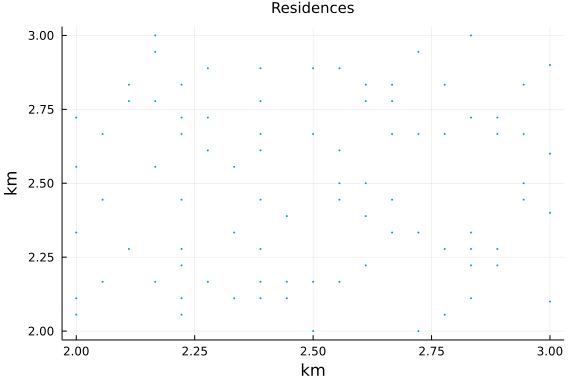
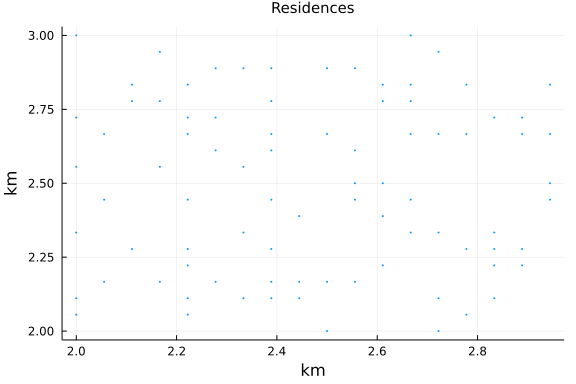
rename field

diff --git a/docs/src/examples/random_scenario.md b/docs/src/examples/random_scenario.md
@@ -275,12 +275,12 @@ res_blocks_distrib = EpiSiming.gen_res_blocks(pop_blocks, res_size_distribution)
 
 ```
 6×12 Matrix{Vector{Int64}}:
- [10, 19, 28, 19, 4, 5, 1, 0]  …  [1, 4, 2, 1, 0, 1, 0, 0]
- [4, 7, 14, 7, 1, 1, 0, 0]        [8, 16, 20, 14, 3, 3, 1, 0]
- [3, 6, 7, 7, 1, 1, 0, 0]         [8, 14, 25, 15, 3, 3, 1, 0]
- [5, 11, 14, 9, 2, 2, 1, 0]       [8, 17, 25, 17, 3, 3, 1, 0]
- [5, 13, 19, 13, 2, 3, 1, 0]      [5, 11, 17, 11, 2, 3, 0, 0]
- [6, 11, 15, 10, 3, 2, 0, 0]   …  [8, 11, 20, 10, 2, 2, 0, 0]
+ [11, 19, 29, 18, 4, 5, 1, 0]  …  [1, 1, 4, 1, 0, 1, 0, 0]
+ [5, 6, 12, 7, 1, 1, 1, 0]        [7, 13, 21, 15, 3, 3, 1, 0]
+ [3, 5, 7, 6, 1, 2, 0, 0]         [7, 15, 24, 14, 3, 4, 1, 0]
+ [5, 9, 13, 11, 2, 3, 0, 0]       [7, 17, 26, 15, 3, 4, 1, 0]
+ [6, 14, 20, 13, 2, 2, 1, 0]      [5, 11, 19, 11, 2, 2, 0, 0]
+ [5, 12, 15, 11, 2, 2, 0, 0]   …  [5, 11, 16, 11, 3, 3, 0, 0]
 ```
 
 
@@ -330,7 +330,7 @@ residences = EpiSiming.gen_residences(rng, res_blocks_distrib)
 ```
 
 ```
-3308-element EpiSiming.Residences{Int64, Float64}:
+3288-element EpiSiming.Residences{Int64, Float64}:
  (1, (1.5555555555555556, 1.3888888888888888), 1, [1])
  (1, (1.5, 1.0), 1, [2])
  (1, (1.5, 1.5), 1, [3])
@@ -342,18 +342,20 @@ residences = EpiSiming.gen_residences(rng, res_blocks_distrib)
  (1, (1.6111111111111112, 1.6111111111111112), 1, [9])
  (1, (1.7222222222222223, 1.7222222222222223), 1, [10])
  ⋮
- (72, (6.357142857142857, 12.142857142857142), 4, [9959, 9960, 9961, 9962])
- (72, (6.142857142857143, 12.642857142857142), 4, [9963, 9964, 9965, 9966])
- (72, (6.857142857142857, 12.142857142857142), 4, [9967, 9968, 9969, 9970])
- (72, (6.571428571428571, 12.214285714285714), 4, [9971, 9972, 9973, 9974])
- (72, (6.785714285714286, 12.357142857142858), 4, [9975, 9976, 9977, 9978])
- (72, (6.5, 12.285714285714286), 5, [9979, 9980, 9981, 9982, 9983])
- (72, (6.071428571428571, 12.357142857142858), 5, [9984, 9985, 9986, 9987, 
-9988])
- (72, (6.428571428571429, 12.857142857142858), 6, [9989, 9990, 9991, 9992, 
+ (72, (6.214285714285714, 12.214285714285714), 4, [9956, 9957, 9958, 9959])
+ (72, (6.428571428571429, 12.357142857142858), 4, [9960, 9961, 9962, 9963])
+ (72, (6.714285714285714, 12.142857142857142), 4, [9964, 9965, 9966, 9967])
+ (72, (6.857142857142857, 12.071428571428571), 5, [9968, 9969, 9970, 9971, 
+9972])
+ (72, (6.642857142857143, 12.071428571428571), 5, [9973, 9974, 9975, 9976, 
+9977])
+ (72, (6.928571428571429, 12.785714285714286), 5, [9978, 9979, 9980, 9981, 
+9982])
+ (72, (6.357142857142857, 12.214285714285714), 6, [9983, 9984, 9985, 9986, 
+9987, 9988])
+ (72, (6.071428571428571, 12.642857142857142), 6, [9989, 9990, 9991, 9992, 
 9993, 9994])
- (72, (6.071428571428571, 12.428571428571429), 6, [9995, 9996, 9997, 9998, 
-9999, 10000])
+ (72, (6.357142857142857, 12.5), 6, [9995, 9996, 9997, 9998, 9999, 10000])
 ```
 
 
@@ -420,64 +422,64 @@ population = EpiSiming.gen_population(
 ```
 
 ```
-10000-element EpiSiming.Population{EpiSiming.Phase, Int64}:
+10000-element EpiSiming.Population{EpiSiming.Phase, Int64, Int64, Float64, 
+Int8, Float64, Symbol}:
  (S, 1, (E, 9223372036854775807), 1, (1.5694444444444444, 1.388888888888888
-8), 36, 0.8429668909281123, 1.0871421914278978, Dict{Symbol, Int64}(), Dict
+8), 17, 0.8429668909281123, 1.0871421914278978, Dict{Symbol, Int64}(), Dict
 {Symbol, Int64}())
- (S, 1, (E, 9223372036854775807), 2, (1.5138888888888888, 1.0), 21, 0.63460
+ (S, 1, (E, 9223372036854775807), 2, (1.5138888888888888, 1.0), 11, 0.63460
 32739780121, 0.9288554210581556, Dict{Symbol, Int64}(), Dict{Symbol, Int64}
 ())
- (S, 1, (E, 9223372036854775807), 3, (1.5138888888888888, 1.5), 51, 1.86613
+ (S, 1, (E, 9223372036854775807), 3, (1.5138888888888888, 1.5), 10, 1.86613
 6384893467, 0.6379958240264992, Dict{Symbol, Int64}(), Dict{Symbol, Int64}(
 ))
  (S, 1, (E, 9223372036854775807), 4, (1.7361111111111112, 1.222222222222222
-3), 32, 1.9630070493538805, 0.49089045628844613, Dict{Symbol, Int64}(), Dic
+3), 45, 1.9630070493538805, 0.49089045628844613, Dict{Symbol, Int64}(), Dic
 t{Symbol, Int64}())
- (S, 1, (E, 9223372036854775807), 5, (1.9583333333333333, 1.5), 40, 0.17974
+ (S, 1, (E, 9223372036854775807), 5, (1.9583333333333333, 1.5), 34, 0.17974
 072857925905, 0.9196908284361106, Dict{Symbol, Int64}(), Dict{Symbol, Int64
 }())
  (S, 1, (E, 9223372036854775807), 6, (1.347222222222222, 1.7777777777777777
-), 31, 0.8018440204599591, 0.8572836161482715, Dict{Symbol, Int64}(), Dict{
-Symbol, Int64}())
+), 9, 0.8018440204599591, 0.8572836161482715, Dict{Symbol, Int64}(), Dict{S
+ymbol, Int64}())
  (S, 1, (E, 9223372036854775807), 7, (1.5694444444444444, 1.055555555555555
-6), 90, 0.7121991800323644, 1.4273823226339426, Dict{Symbol, Int64}(), Dict
+6), 44, 0.7121991800323644, 1.4273823226339426, Dict{Symbol, Int64}(), Dict
 {Symbol, Int64}())
  (S, 1, (E, 9223372036854775807), 8, (1.5694444444444444, 1.277777777777777
-7), 70, 0.7803803598677808, 0.7458566679008322, Dict{Symbol, Int64}(), Dict
+7), 69, 0.7803803598677808, 0.7458566679008322, Dict{Symbol, Int64}(), Dict
 {Symbol, Int64}())
- (S, 1, (E, 9223372036854775807), 9, (1.625, 1.6111111111111112), 64, 0.753
+ (S, 1, (E, 9223372036854775807), 9, (1.625, 1.6111111111111112), 40, 0.753
 3507391116316, 1.0597501527579962, Dict{Symbol, Int64}(), Dict{Symbol, Int6
 4}())
  (S, 1, (E, 9223372036854775807), 10, (1.7361111111111112, 1.72222222222222
-23), 50, 1.0583784725947785, 0.6163376056877701, Dict{Symbol, Int64}(), Dic
+23), 42, 1.0583784725947785, 0.6163376056877701, Dict{Symbol, Int64}(), Dic
 t{Symbol, Int64}())
  ⋮
- (S, 1, (E, 9223372036854775807), 3307, (6.410714285714286, 12.857142857142
-858), 36, 0.7425559871162212, 1.878529197903739, Dict{Symbol, Int64}(), Dic
+ (S, 1, (E, 9223372036854775807), 3287, (6.053571428571428, 12.642857142857
+142), 37, 0.7425559871162212, 1.878529197903739, Dict{Symbol, Int64}(), Dic
 t{Symbol, Int64}())
- (S, 1, (E, 9223372036854775807), 3307, (6.419642857142858, 12.841678117789
-565), 47, 1.3467418715174564, 0.6158224898743601, Dict{Symbol, Int64}(), Di
-ct{Symbol, Int64}())
- (S, 1, (E, 9223372036854775807), 3307, (6.4375, 12.841678117789565), 49, 0
-.5713254684769675, 1.2604338561736381, Dict{Symbol, Int64}(), Dict{Symbol, 
-Int64}())
- (S, 1, (E, 9223372036854775807), 3308, (6.089285714285714, 12.428571428571
-429), 11, 0.71166954083545, 0.6573989249359745, Dict{Symbol, Int64}(), Dict
-{Symbol, Int64}())
- (S, 1, (E, 9223372036854775807), 3308, (6.080357142857142, 12.444036167924
-722), 34, 0.9299123501842387, 0.5603267260793015, Dict{Symbol, Int64}(), Di
-ct{Symbol, Int64}())
- (S, 1, (E, 9223372036854775807), 3308, (6.0625, 12.444036167924722), 48, 0
-.3495478705397754, 0.7703472343146436, Dict{Symbol, Int64}(), Dict{Symbol, 
-Int64}())
- (S, 1, (E, 9223372036854775807), 3308, (6.053571428571428, 12.428571428571
-429), 37, 0.6946812843355863, 2.073824042353887, Dict{Symbol, Int64}(), Dic
+ (S, 1, (E, 9223372036854775807), 3287, (6.0625, 12.62739240350385), 34, 1.
+3467418715174564, 0.6158224898743601, Dict{Symbol, Int64}(), Dict{Symbol, I
+nt64}())
+ (S, 1, (E, 9223372036854775807), 3287, (6.080357142857142, 12.627392403503
+85), 37, 0.5713254684769675, 1.2604338561736381, Dict{Symbol, Int64}(), Dic
 t{Symbol, Int64}())
- (S, 1, (E, 9223372036854775807), 3308, (6.0625, 12.413106689218136), 54, 1
-.1293777785439765, 1.4010740192330449, Dict{Symbol, Int64}(), Dict{Symbol, 
-Int64}())
- (S, 1, (E, 9223372036854775807), 3308, (6.080357142857142, 12.413106689218
-136), 47, 0.8959454204650464, 1.9864694366090996, Dict{Symbol, Int64}(), Di
+ (S, 1, (E, 9223372036854775807), 3288, (6.375, 12.5), 39, 0.71166954083545
+, 0.6573989249359745, Dict{Symbol, Int64}(), Dict{Symbol, Int64}())
+ (S, 1, (E, 9223372036854775807), 3288, (6.366071428571428, 12.515464739353
+293), 85, 0.9299123501842387, 0.5603267260793015, Dict{Symbol, Int64}(), Di
+ct{Symbol, Int64}())
+ (S, 1, (E, 9223372036854775807), 3288, (6.348214285714286, 12.515464739353
+293), 62, 0.3495478705397754, 0.7703472343146436, Dict{Symbol, Int64}(), Di
+ct{Symbol, Int64}())
+ (S, 1, (E, 9223372036854775807), 3288, (6.3392857142857135, 12.5), 12, 0.6
+946812843355863, 2.073824042353887, Dict{Symbol, Int64}(), Dict{Symbol, Int
+64}())
+ (S, 1, (E, 9223372036854775807), 3288, (6.348214285714286, 12.484535260646
+707), 58, 1.1293777785439765, 1.4010740192330449, Dict{Symbol, Int64}(), Di
+ct{Symbol, Int64}())
+ (S, 1, (E, 9223372036854775807), 3288, (6.366071428571428, 12.484535260646
+707), 37, 0.8959454204650464, 1.9864694366090996, Dict{Symbol, Int64}(), Di
 ct{Symbol, Int64}())
 ```
 
@@ -739,7 +741,7 @@ exposed_at_time_0 = sample(rng, 1:num_population, num_exposed_at_time_0, replace
 for n in exposed_at_time_0
     population.phase[n] = EXPOSED
     next_change, next_phase = EpiSiming.transition_rules(rng, EXPOSED, 1)
-    population.transition[n] = (next_phase, next_change)
+    population.next_transition[n] = (next_phase, next_change)
 end
 ```
 
@@ -779,31 +781,29 @@ time_step = 1
 ```
 
 ```
-1.423776 seconds (934.02 k allocations: 95.019 MiB, 3.00% gc time, 44.11%
- compilation time)
-  0.250617 seconds (55.14 k allocations: 3.325 MiB, 20.51% compilation time
-)
+1.523075 seconds (66.01 k allocations: 44.580 MiB)
+  0.213170 seconds (2 allocations: 19.766 KiB)
 360×7 Matrix{Int64}:
- 9980  20   0  0     0    0  0
- 9980  20   0  0     0    0  0
- 9980  19   1  0     0    0  0
- 9980  18   2  0     0    0  0
- 9980  12   3  5     0    0  0
- 9978   8   9  5     0    0  0
- 9968  13  12  7     0    0  0
- 9964  16  13  7     0    0  0
- 9960  20  14  6     0    0  0
- 9955  23  16  6     0    0  0
-    ⋮                     ⋮  
- 1914   0   0  0  7928  158  0
- 1914   0   0  0  7928  158  0
- 1914   0   0  0  7928  158  0
- 1914   0   0  0  7928  158  0
- 1914   0   0  0  7928  158  0
- 1914   0   0  0  7928  158  0
- 1914   0   0  0  7928  158  0
- 1914   0   0  0  7928  158  0
- 1914   0   0  0  7928  158  0
+ 9980  20   0   0     0    0  0
+ 9980  19   1   0     0    0  0
+ 9980  18   2   0     0    0  0
+ 9978  20   2   0     0    0  0
+ 9978  12   6   4     0    0  0
+ 9975   9   9   7     0    0  0
+ 9968  12  11   9     0    0  0
+ 9962  17  10  11     0    0  0
+ 9958  18  10  14     0    0  0
+ 9953  20  12  14     1    0  0
+    ⋮                      ⋮  
+ 2065   0   0   0  7779  156  0
+ 2065   0   0   0  7779  156  0
+ 2065   0   0   0  7779  156  0
+ 2065   0   0   0  7779  156  0
+ 2065   0   0   0  7779  156  0
+ 2065   0   0   0  7779  156  0
+ 2065   0   0   0  7779  156  0
+ 2065   0   0   0  7779  156  0
+ 2065   0   0   0  7779  156  0
 ```
 
 
